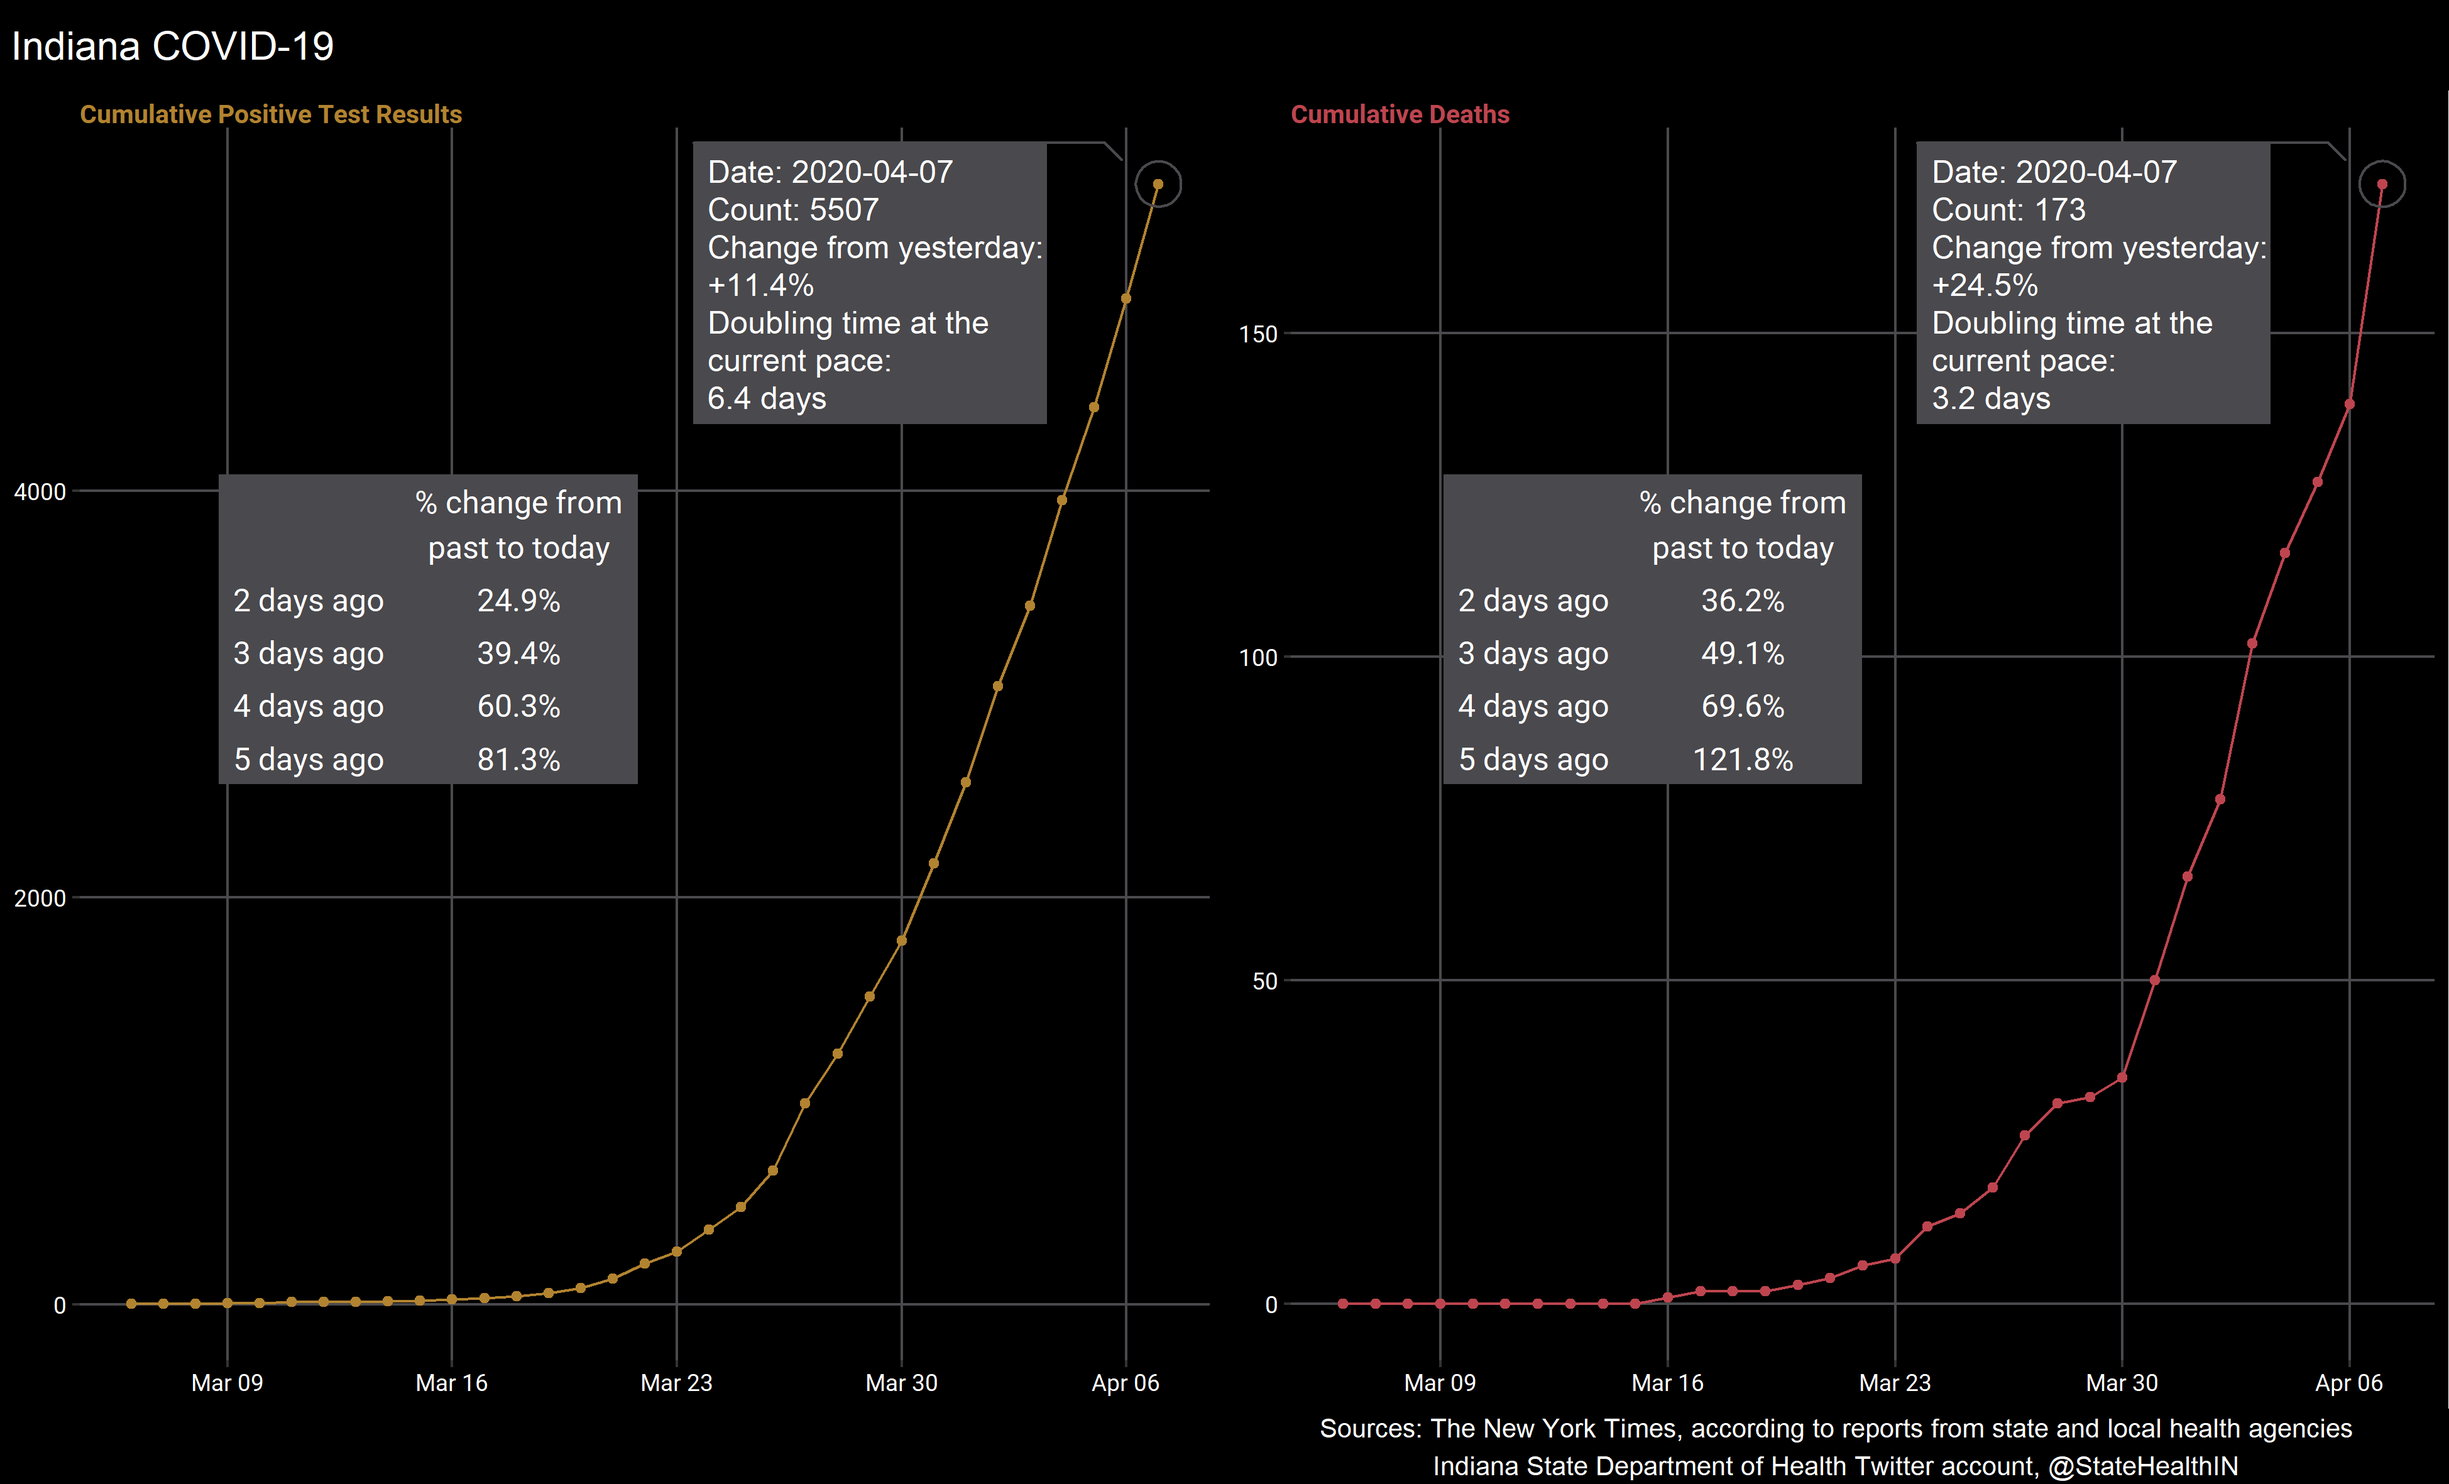
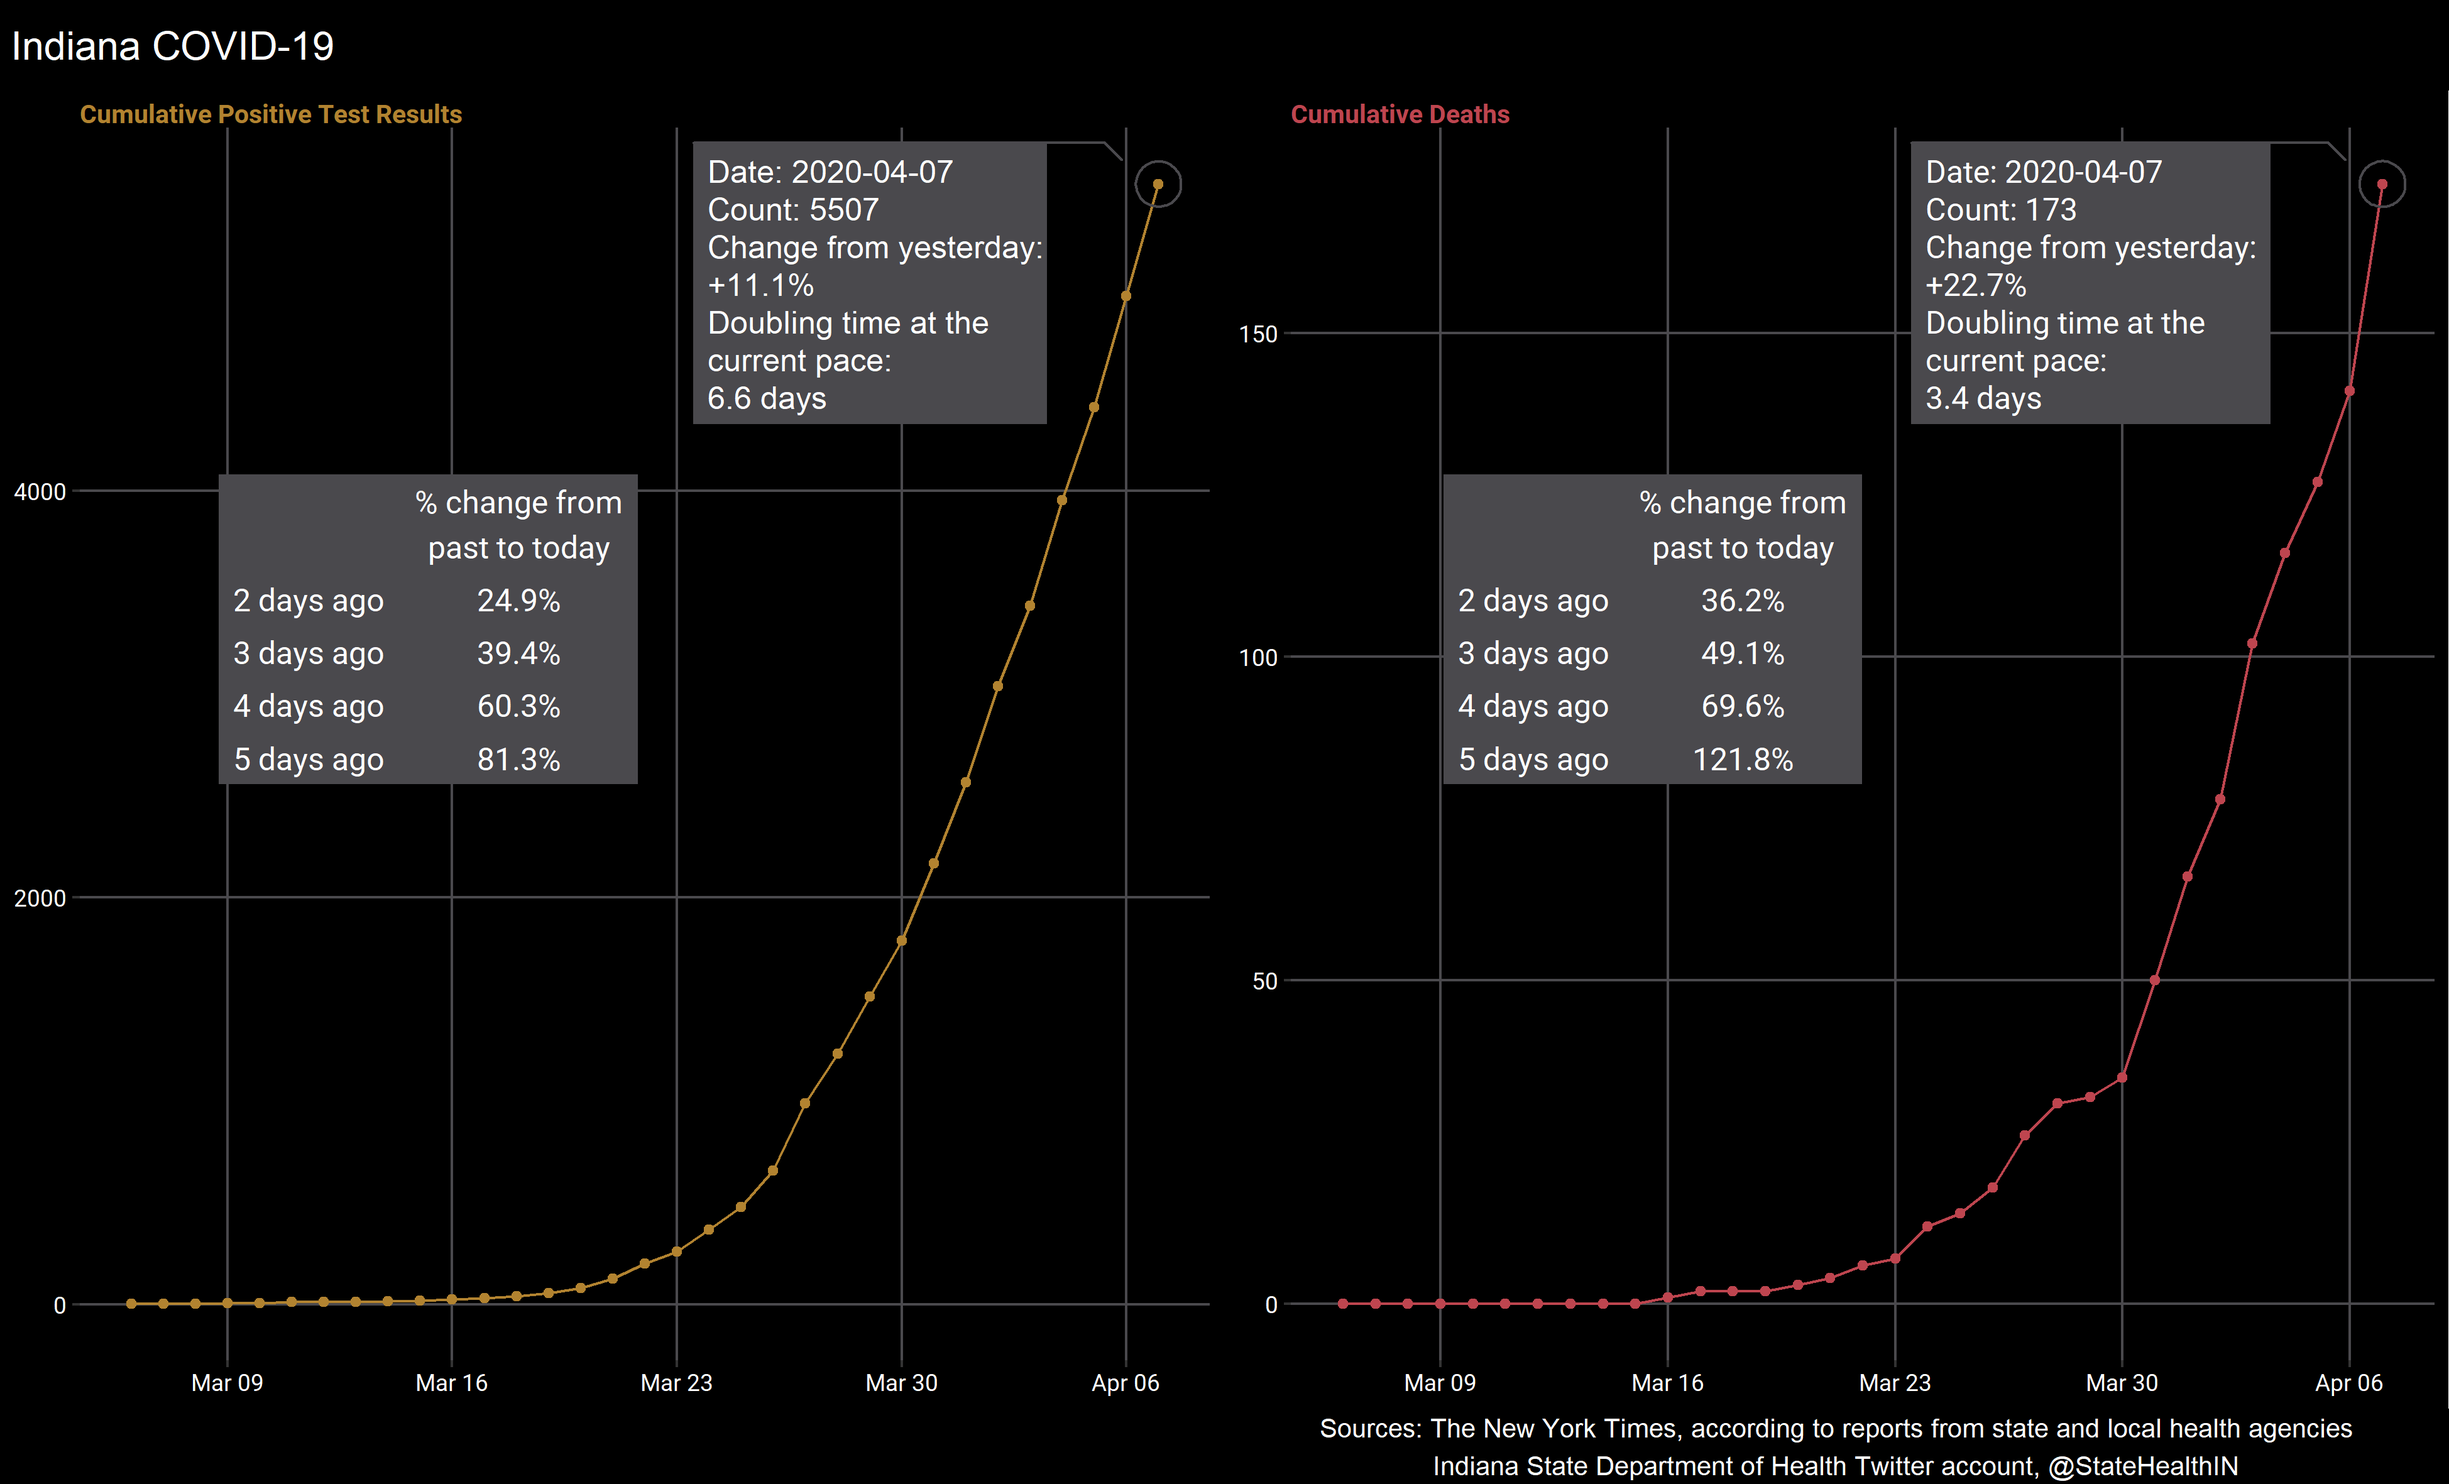
changed ggtext family to roboto

Changed region(s): [[0.7762, 0.0927, 0.9315, 0.2782]]

diff --git a/README.md b/README.md
@@ -1,4 +1,12 @@
 
+latex test   
+![x\_t = x\_0(r
++ 1)^t](https://latex.codecogs.com/png.latex?x_t%20%3D%20x_0%28r%20%2B%201%29%5Et
+"x_t = x_0(r + 1)^t")  
+blah blah ![x\_t = x\_0(r
++ 1)^t](https://latex.codecogs.com/png.latex?x_t%20%3D%20x_0%28r%20%2B%201%29%5Et
+"x_t = x_0(r + 1)^t") blah
+
 # Indiana COVID-19 Tracker
 
 Repository to track COVID-19 data statewide and by county. State and
